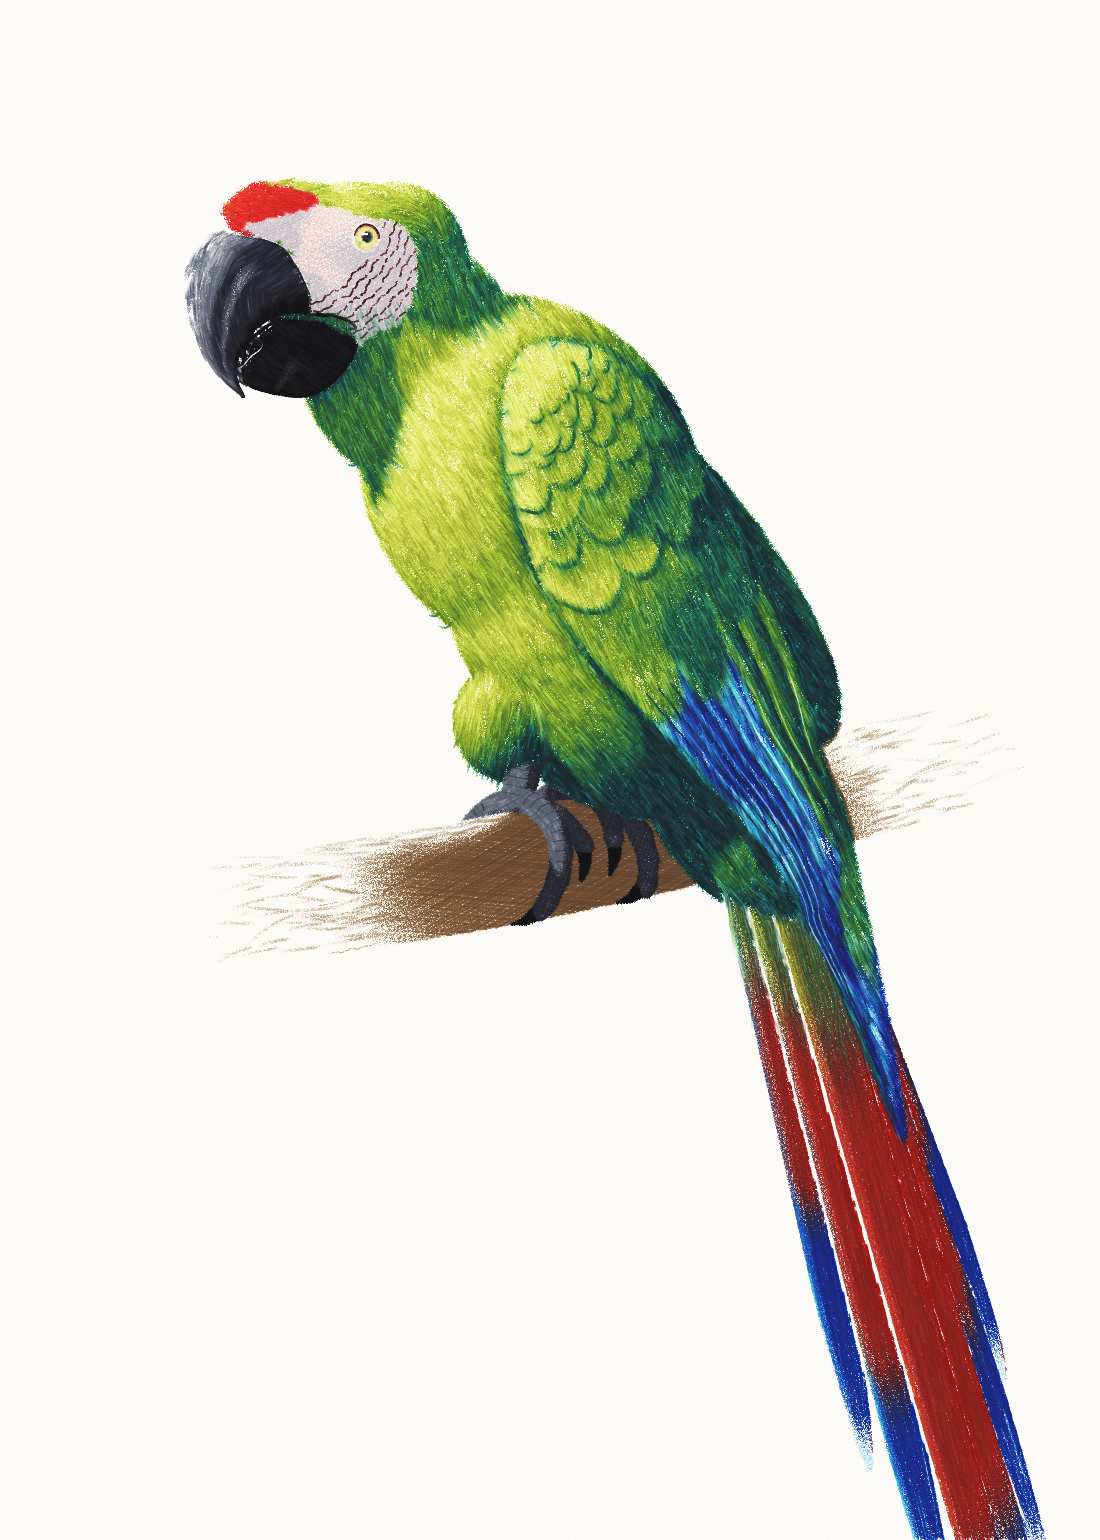
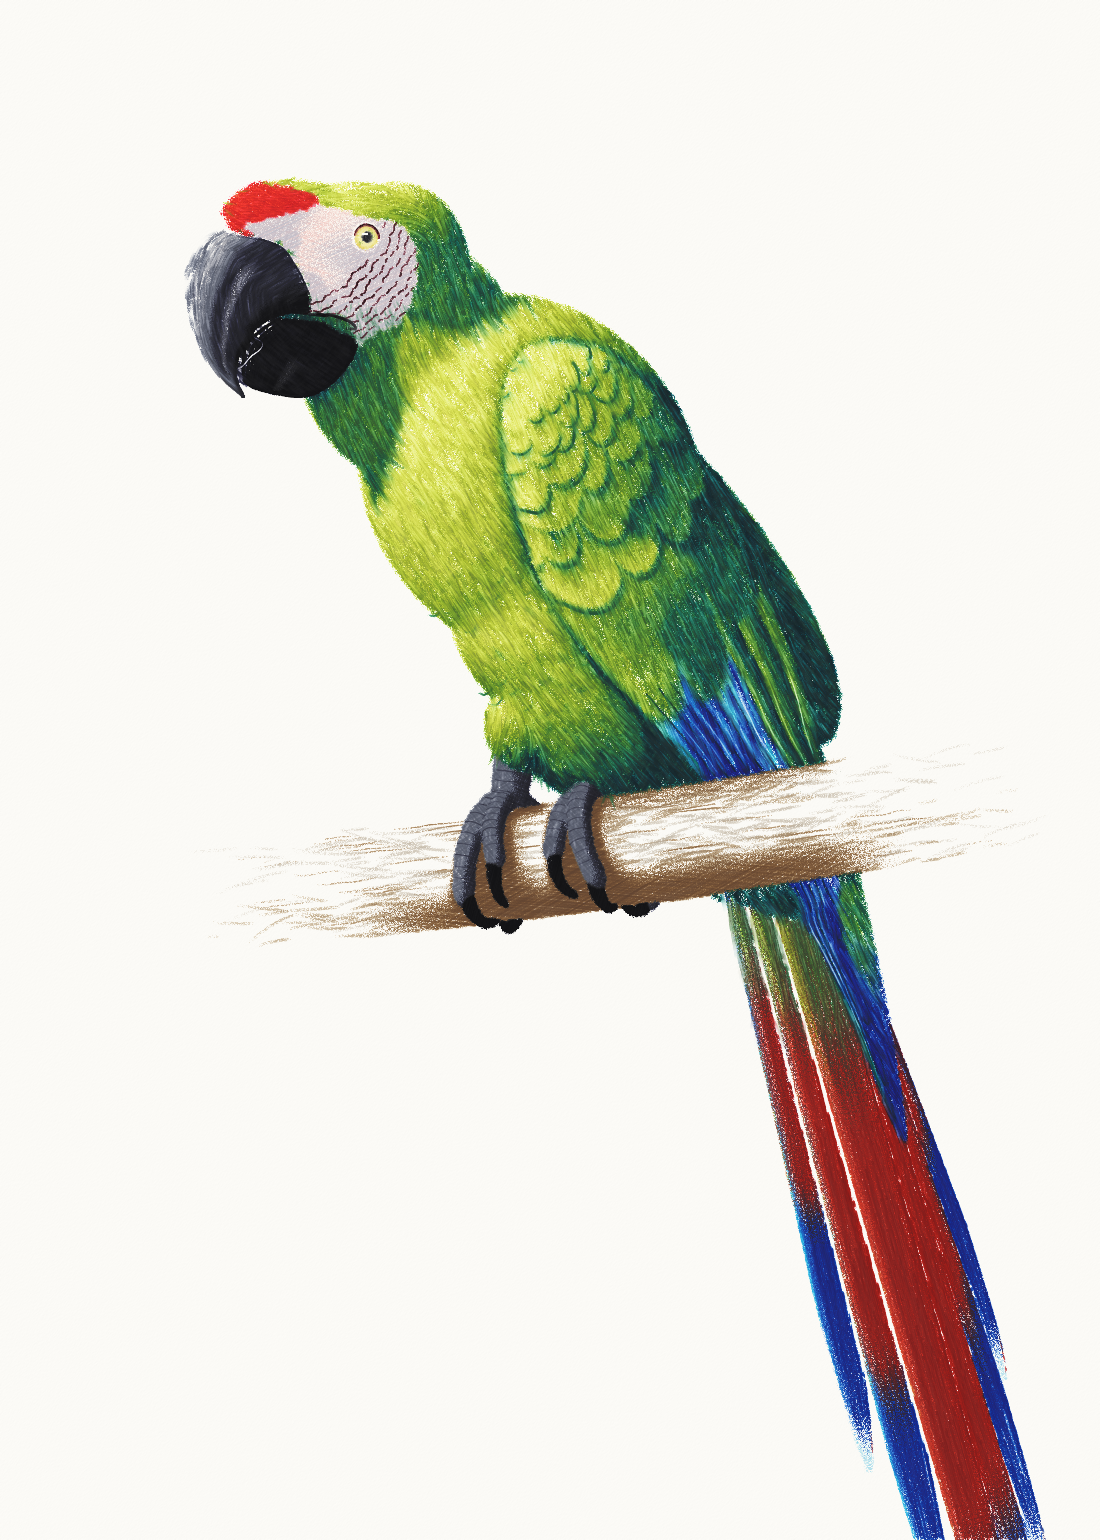
The macaw's feet face the way the bird does (fusain-9vi) (#71)
* The macaw's feet face the way the bird does (fusain-9vi, in progress)

The branch slants the other way in depth, so the side we see is the side
the bird faces: each foot shows its two forward toes wrapping toward us,
the back toes hidden over the far side. The near thigh folds into the
belly, the legs are short, the claws arch into hooks, and the feet cast a
soft shadow on the bark.

Claude-Session: https://claude.ai/code/session_01EHReogjm4Lj6h5bTxYYea9

* The macaw's near leg comes straight down into the foot (fusain-9vi)

Claude-Session: https://claude.ai/code/session_01EHReogjm4Lj6h5bTxYYea9

* The macaw's feet: format, and close fusain-9vi

Claude-Session: https://claude.ai/code/session_01EHReogjm4Lj6h5bTxYYea9

---------

Changed region(s): [[0.2473, 0.4364, 0.8655, 0.7169]]

diff --git a/examples/macaw_model.py b/examples/macaw_model.py
@@ -431,10 +431,10 @@ TAIL_ROOT, TAIL_HANG, TAIL_LENGTH, TAIL_ROLL = (-3.5, -4.75), 17.0, 7.6, 62.0
 #: across it), its front end toward the viewer, so that the near side of
 #: the branch is the side the bird's back is to; and it is as thick as the
 #: toes can close round, so that they wrap about two thirds of the way.
-BRANCH_AT, BRANCH_DIR, BRANCH_R = (-1.69, -4.74, 0.0), (0.71, -0.11, 0.7), 0.42
+BRANCH_AT, BRANCH_DIR, BRANCH_R = (-1.69, -4.74, 0.0), (0.71, -0.11, -0.7), 0.42
 #: Where along the branch from that point each foot grips: the near (right)
 #: one ahead, the far (left) one behind, a body's width at the legs apart.
-FEET = (0.42, -0.42)
+FEET = (0.3, -0.42)
 
 #: The feathered body: centre (x, y), radii (along, across, sideways) and
 #: the direction (degrees) its long axis runs, down from the neck: the
@@ -451,7 +451,7 @@ TORSO = [
 #: far one behind, the near one ahead.
 THIGHS = [
     ((-2.0, -3.78, -0.16), (0.5, 0.46, 0.4)),
-    ((-1.38, -3.7, 0.1), (0.46, 0.44, 0.38)),
+    ((-1.58, -3.72, 0.02), (0.38, 0.38, 0.32)),
 ]
 
 
@@ -651,32 +651,33 @@ def branch_blobs() -> list[Blob]:
     return chain(spine, r, r, "branch", side=side, overlap=6.0)
 
 
-#: The toes of the near (right) foot, closed round the branch: from where
-#: each leaves the ball of the foot to its tip, how far round the branch's
-#: section it runs (degrees: 90 is the top, 0 the side toward the viewer,
-#: 180 the far side, where the bird's front is), how far along the branch
-#: its tip lies (toward the foot's outer side), how thick it is at its root,
-#: how many joints it bends at, and how far round its claw reaches. Two
-#: forward over the top and down the far side (the outer, 3, longest), two
-#: back down the near side (the outer, 4, long, the hind toe short); the
-#: left foot is their mirror image along the branch.
-TOES = ((110, 226, 0.08, 0.1, 3, 42), (110, 208, -0.22, 0.095, 2, 40),
-        (82, -30, 0.3, 0.1, 4, 48), (82, 18, -0.2, 0.092, 1, 42))  # fmt: skip
-#: The leg of the near foot: where its heel lies from the ball of the foot
-#: (behind it, above it and in toward the body's middle, hidden in the
-#: thigh's feathers), and how thick the scaly tarsus is.
-HEEL, TARSUS = (-0.12, 0.42, -0.14), 0.135
+#: The toes of a foot, closed round the branch: from where each leaves the
+#: ball of the foot to its tip, how far round the branch's section it runs
+#: (degrees: 90 is the top, 0 the side toward the viewer, which is the side
+#: the bird faces, 180 the far side), how far along the branch its tip lies
+#: (toward the foot's outer side), how thick it is at its root, how many
+#: joints it bends at, and how far round its claw reaches. A parrot's foot
+#: is zygodactyl: two toes forward, over the top and down the side we see
+#: (the outer, 3, longer, the inner, 2, shorter), two back over the far
+#: side, out of sight (the outer, 4, long, the hind toe short). The two
+#: feet are mirror images of each other along the branch.
+TOES = ((100, -18, 0.2, 0.1, 3, 70), (100, 8, -0.1, 0.095, 2, 64),
+        (100, 222, 0.22, 0.1, 4, 50), (100, 196, -0.16, 0.092, 1, 46))  # fmt: skip
+#: How thick the scaly tarsus is; each leg runs from the ball of its foot
+#: straight up into the belly's feathers, where its heel lies hidden.
+TARSUS = 0.15
 
 
 def foot(f: float):
     """The foot gripping ``f`` along the branch: its point on the branch's
     axis, which way along the branch its outer side lies (+1 or -1), the
-    ball of the foot on top of the branch and the heel above it."""
+    ball of the foot on top of the branch and the heel straight above it, a
+    little behind, hidden in the belly's feathers."""
     b, up, _ = branch_frame()
     centre = np.asarray(BRANCH_AT) + b * f
     outward = 1.0 if f > 0 else -1.0
     ball = centre + up * (BRANCH_R + 0.05)
-    heel = ball + np.array([HEEL[0], HEEL[1], HEEL[2] * outward])
+    heel = ball + np.array([-0.06, 0.5, 0.0])
     return centre, outward, ball, heel
 
 
@@ -690,10 +691,12 @@ def toe_path(centre, toe_of, outward: float, claw: bool = False, n: int = 16):
     start, stop, splay, thick, joints, reach = toe_of
     t = np.linspace(0.0, 1.0, n)
     if claw:
+        # (a hook: it rises off the bark from the toe's tip, arches over and
+        # bites back into the wood at its point, curling a little inward)
         turn = stop + np.sign(stop - start) * reach * t
-        along = splay * (1.0 + 0.1 * t)
-        radius = thick * (0.64 - 0.56 * t**1.2)
-        lift = 0.55 * radius - 0.03 * t**2
+        along = splay - 0.06 * np.sign(splay) * t**2
+        radius = thick * (0.62 - 0.54 * t**1.1)
+        lift = 0.55 * thick * 0.62 + 0.05 * np.sin(np.pi * t) - 0.1 * t**3
     else:
         turn = start + (stop - start) * t
         along = splay * t**1.3
@@ -720,7 +723,7 @@ def feet_blobs() -> list[Blob]:
         leg = np.linspace(heel, ball, 7)
         thick = np.linspace(TARSUS, 0.9 * TARSUS, 7)
         out += chain(leg, thick, thick, "toes", side=b, overlap=2.0)
-        out.append(blob(ball, (0.14, 0.085, 0.14), "toes", along=b))
+        out.append(blob(ball, (0.12, 0.07, 0.12), "toes", along=b))
         for toe_of in TOES:
             spine, radius, _ = toe_path(c, toe_of, outward)
             out += chain(spine, radius, radius, "toes", side=b, overlap=2.4)

diff --git a/examples/macaw.py b/examples/macaw.py
@@ -477,6 +477,9 @@ def shading(model: mm.Model, part: dict[str, np.ndarray]) -> np.ndarray:
     s += 0.35 * chin * band(by, -0.2, -0.8)
     body = np.isfinite(model.seen.z) & ~part["branch"]
     s += 0.55 * soft(np.roll(np.roll(body, 26, 0), 18, 1), 14) * part["branch"]
+    # (the feet's own soft shadow on the bark, down and away from the light)
+    feet = part["toes"] | part["claws"]
+    s += 0.45 * soft(np.roll(np.roll(feet, 5, 0), 7, 1), 4) * part["branch"]
     return np.clip(s, 0.0, 1.0)
 
 
@@ -1280,7 +1283,12 @@ def draw_feet(hand: Hand, bird: Bird) -> None:
             (x + 3 * math.cos(a), y + 3 * math.sin(a)),
         ]
         hand.erase(stroke, tools.ERASER, [0.15, 0.4, 0.15], 3.0, as_seed(grain))
-    hand.tone(BLACK, claws * 1.0, 0.9, (30, -40, 100), 2.2)
+    # (the horn of the claws dark, its curve caught by the light along its
+    # back)
+    c = soft(bird.shade * claws, 2) / np.maximum(soft(claws, 2), 1e-6) * claws
+    hand.tone(
+        BLACK, claws * (0.35 + 0.65 * band(c, 0.25, 0.7)), 0.9, (30, -40, 100), 2.2
+    )
     hand.tone(CHAR, claws * 1.0, 0.8, (75,), 2.2)
 
 
